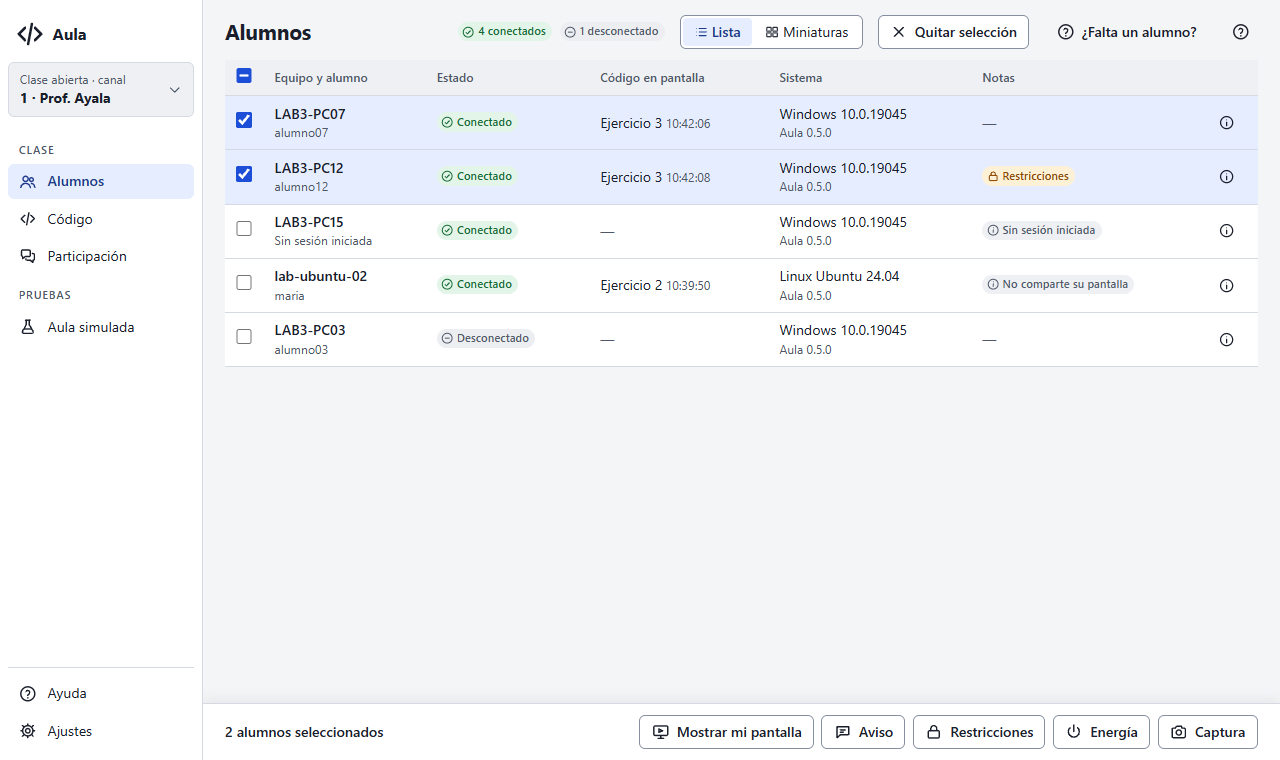
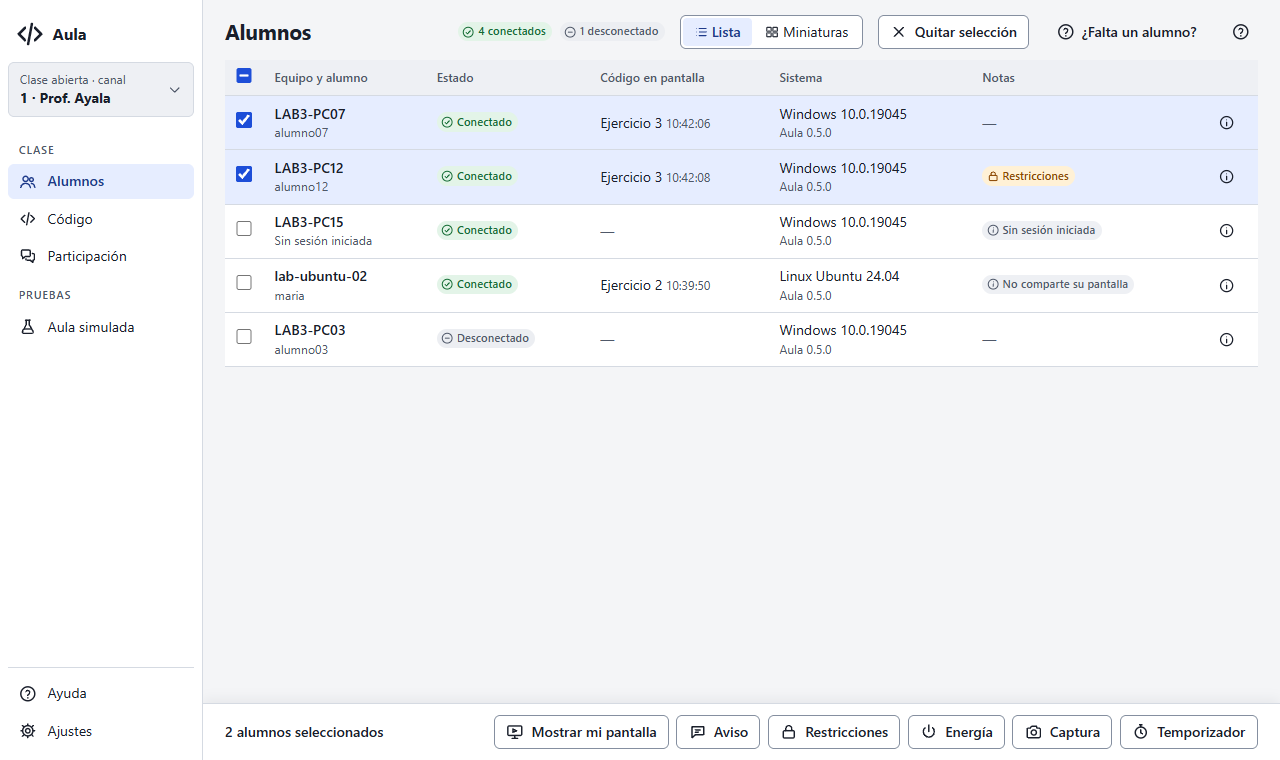
documentacion(docs): privacidad, manual y pruebas del temporizador de ejercicio
Regla 54 (el temporizador solo informa), Participación › Temporizador y la tarea «Dar tiempo
a un ejercicio», eventos de la UI, el paquete classtimer en CLAUDE.md, casos C-63 a C-67, A-18
y A-19, prueba en VM §20, progreso, nota de entrega con capturas y capturas del manual.

Changed region(s): [[0.375, 0.9382, 0.9688, 0.9987]]

diff --git a/docs/eventos-ui.md b/docs/eventos-ui.md
@@ -43,6 +43,7 @@ que no es parte de la página.
 | `aula:compact` | `Compact` | Go sacó la ventana del modo compacto porque el profesor hizo algo que el alumno debe ver (energía, restricciones, transmisión): `{on: false}`. |
 | `aula:power` | `PowerView` | Llega, se pospone, se ejecuta, falla o se anula una orden de energía (`power.*`). Llega **antes** de que la consola reciba el `power.ack`. `notice` es `null` cuando no hay aviso. |
 | `aula:participation` | `participation.DeskView` | La mano del alumno sube o baja (también si la baja el profesor: `hand.lower`), o uno de sus mensajes se envía, llega a la consola (`msg.student.ack`) o se rechaza (docs/protocol.md §5.18). Con `notify`, nunca `raise`. |
+| `aula:timer` | `classtimer.View` = `{state, timerId, label, remainingMs, justEnded}` | El temporizador del profesor empieza, se extiende, se detiene, termina o se quita (docs/protocol.md §5.19). `state`: `none`, `running` o `ended`. La ventana cuenta los segundos por su cuenta desde `remainingMs` (lo que faltaba al emitirlo) con `performance.now()`, sin la hora del equipo, y arma el texto de la insignia de la tira y del modo compacto. `justEnded` viene solo en el evento del fin: la ventana muestra el aviso de la esquina una vez. Al terminar Go llama a `notify`, nunca a `raise`. |
 
 ```jsonc
 // Status
@@ -106,7 +107,7 @@ llevar estado propio.
 
 | Método | Devuelve | Uso |
 |---|---|---|
-| `App.View()` | `View` = `{status, snippets, notices, broadcast, restrictions, power, participation}` | Estado completo para el primer dibujo. |
+| `App.View()` | `View` = `{status, snippets, notices, broadcast, restrictions, power, participation, timer}` | Estado completo para el primer dibujo. |
 | `App.Copy(snippetId)` | error (promesa rechazada con texto en español) | Copia el fragmento al portapapeles del sistema. |
 | `App.DismissNotice(noticeId)` | — | Cierra un aviso; emite `aula:notices`. |
 | `App.ReportMedia(webrtc, h264)` | — | Al cargar: si hay `RTCPeerConnection` y decodificador H.264. Go espera este aviso (máx. 5 s) antes de conectarse y solo entonces declara `screen.broadcast`. |
@@ -208,6 +209,7 @@ interfaz ──App.StopBroadcast()──▶ screen.broadcast.stop a todos; la co
 | `aula:remote` | `remote.Control` | El control remoto empieza (`starting`), el agente muestra su banda (`active`), se pausa porque el alumno usa su equipo (`paused`), sigue (`active`) o termina: `ended` con `reason` `teacher`, `replaced`, `idle`, `session` o `error`; `gone` si el alumno se desconectó; `failed` si el agente no pudo mostrar su aviso. `{sessionID, hostname, controlID, status, reason, viewing}`. |
 | `aula:snapshots` | `Snapshots` | Una captura de un alumno se pide, llega (`ready`), falla (`failed` con `reason` `timeout`, `capture`, `busy`, `unsupported`, `tooLarge`, `corrupt` o `gone`), se guarda (`path`) o se descarta. Lista completa `{snapshots: [{id, sessionId, hostname, username, simulated, status, reason, width, height, size, requestedAt, takenAt, path}]}`, **sin la imagen** (`SnapshotImage`). |
 | `aula:participation` | `Participation` | Un alumno (real o simulado) levanta o baja la mano, llega o se responde un mensaje, el profesor baja una mano o marca un mensaje como atendido, o la clase se cierra (docs/protocol.md §5.18). `arrival` solo viene en el evento que anuncia una mano o un mensaje recién llegado, para el aviso flotante (sin el texto). Las insignias de cada alumno llegan también en `aula:students` (`hand`, `newMessages`). |
+| `aula:timer` | `classtimer.Snapshot` | El temporizador de la clase empieza, se extiende, se detiene, llega a cero, un alumno lo confirma (`timer.ack`) o se reenvía a quien se reconecta (docs/protocol.md §5.19). `{active, timerId, label, durationS, remainingMs, ended, all, hosts, maxExtendS, receivers, eligible, unsupported}`: `remainingMs` es lo que faltaba al emitirlo (la interfaz cuenta con `performance.now()`); `receivers` = `[{sessionId, hostname, username, simulated, status}]` con `status` `sent` (sin confirmar), `running` o `ended`; `unsupported`, los equipos destinatarios que no declararon `timer`. La franja y la sección de Participación se dibujan con él. |
 | `aula:remote-frame` | `Thumb` | Cada imagen de la pantalla controlada (hasta 8 por segundo con la vista abierta, 1 con la vista cerrada). No pasa por `aula:frame` ni se guarda. |
 
 ```jsonc
@@ -327,6 +329,10 @@ cada código tenga su enlace y que la sección exista.
 | `SendNoticeTo(text, level, targets)` | `Delivery` / error | Igual, solo a `targets` (vacío = todos). Lo usa el panel **Aviso**. |
 | `SendPrivateNotice(sessionId, text, level)` | `Delivery` / error | **Mensaje privado** de la ficha y de la pantalla en grande (también en modo control: antes se sueltan las teclas presionadas y lo escrito en el campo no sale por `SendRemoteInput`): `msg.show` con `personal` solo a esa sesión (real o simulada). Su etiqueta es «Mensaje privado a <equipo>», sin el texto (`docs/privacidad.md` regla 53); el acuse llega en `aula:deliveries`. `studentGone` si no está conectado, `noticeUnsupported` si su equipo no declaró `msg.show`, `invalidNotice` si el texto no vale. |
 | `Resend(deliveryId)` | `Delivery` / error | **Reenviar a los que faltan**: manda de nuevo el mismo mensaje a las sesiones de `pending` y de `rejected` que siguen conectadas (las de `rejected` vuelven a `pending`). Los acuses tardíos del primer envío ya no cuentan; los nuevos, una vez. |
+| `Timer()` | `classtimer.Snapshot` | El temporizador de la clase (también en `View().timer`). |
+| `StartTimer({label, durationS, hosts})` | `classtimer.Snapshot` / error | **Iniciar** del panel **Temporizador**: reemplaza al que corre. `hosts`: los equipos de la selección (reales o simulados); vacío = toda la clase, también quien se conecte después. `label` ≤ 40, `durationS` 10 s–4 h. `noTimerTargets` si ninguno de los destinatarios conectados declaró `timer`; `invalidTimer` si el nombre o la duración no valen. El nombre no se registra (`docs/privacidad.md` regla 54). |
+| `ExtendTimer(addS)` | `classtimer.Snapshot` / error | **Extender** (+1, +5 o +10 min) de la franja y de Participación: `timer.extend` con lo que falta ya extendido; revive uno terminado. `timerGone` si no hay; `timerTooLong` si pasaría de 4 h; `invalidTimer` fuera de 1–60 min. |
+| `StopTimer()` | `classtimer.Snapshot` / error | **Detener** (o **Quitar**, ya terminado): `timer.stop` a quien lo tenía. `timerGone` si no hay. |
 | `InstallerInfo()` | `InstallerInfo` | Datos para quien instala: `{channel, consoleName, hostname, addresses, port, mediaPort, fingerprint, keySource, version}`. |
 | `CaptureClipboard()` | `Draft` / error | Igual que el atajo global; el resultado también llega como `aula:capture`. |
 | `OpenScreens()` | error | Abre la vista de pantallas (botón **Ver pantallas**): envía `screen.thumb.start` (1000 ms, calidad 50, 320 px) a cada alumno conectado con `canThumb`, y también a los que se conecten mientras siga abierta. Error si no hay clase. |

diff --git a/docs/progreso.md b/docs/progreso.md
@@ -1,6 +1,7 @@
 # Progreso
 
-Última actualización: 2026-11-05 (10.7 mensaje privado a un alumno implementado, falta la prueba
+Última actualización: 2026-11-05 (10.8 temporizador de ejercicio implementado, falta la prueba en
+VM; 10.7 mensaje privado a un alumno implementado, falta la prueba
 en VM; 10.6 manos y mensajes del alumno implementada, con la vista
 «Participación»; falta la prueba en VM; 10.5 captura de pantalla de un alumno implementada, falta la
 prueba en VM; 10.4 control remoto implementado, falta la prueba en VM; etapa 19 cerrada).
@@ -27,7 +28,7 @@ el que se trabajó antes; las notas de abajo lo conservan.
 | 10.5 | Captura de pantalla de un alumno | ✅ Implementado y probado en CI con dobles (falta la prueba en VM, `docs/prueba-vms.md` §17, y los casos C-49 a C-53 y A-12 y A-13) |
 | 10.6 | Mensajería del alumno y «levantar la mano» | ✅ Implementado y probado en CI con dobles y alumnos simulados; creó la vista «Participación» (falta la prueba en VM, `docs/prueba-vms.md` §18, y los casos C-54 a C-58 y A-14 a A-16) |
 | 10.7 | Mensaje directo a un alumno | ✅ Implementado como mejora del aviso (`msg.show` con `personal`) y probado en CI (falta la prueba en VM, `docs/prueba-vms.md` §19, y los casos C-59 a C-62 y A-17) |
-| 10.8 | Temporizador compartido | ⏳ Pendiente |
+| 10.8 | Temporizador compartido | ✅ Implementado y probado en CI con dobles y alumnos simulados; su sección en «Participación» (falta la prueba en VM, `docs/prueba-vms.md` §20, y los casos C-63 a C-67 y A-18 y A-19) |
 | 10.9 | Enviar archivos y plantillas de ejercicio | ⏳ Pendiente |
 | 10.10 | Recoger código y archivos | ⏳ Pendiente |
 | 10.11 | Enviar una URL o abrir una app | ⏳ Pendiente |
@@ -47,16 +48,16 @@ el que se trabajó antes; las notas de abajo lo conservan.
 | 20 | Auditoría y limpieza de los artefactos de `docs/v1/ux/` | ⏳ Pendiente (después de publicar el release) |
 
 **Siguiente:**
-1. Probar en la ventana real los casos C-01 a C-62 y A-01 a A-17, el control remoto en VM
+1. Probar en la ventana real los casos C-01 a C-67 y A-01 a A-19, el control remoto en VM
    (`docs/prueba-vms.md` §16: RC-A, RC-B y RC-C para aceptar), la captura (§17: SN-A, SN-B y
-   SN-C), las manos y mensajes (§18: HM-A, HM-B y HM-C) y el mensaje privado (§19: PM-A, PM-B y
-   PM-C).
+   SN-C), las manos y mensajes (§18: HM-A, HM-B y HM-C), el mensaje privado (§19: PM-A, PM-B y
+   PM-C) y el temporizador (§20: TM-A, TM-B y TM-C).
 2. La revisión 11.
 3. ~~Publicar `v0.6.0-rc.1`~~: publicado el 05/11/2026 (etapas 10.2, 10.3, 18, 19 y 10.4, instaladores
    de Windows y checksums firmados). Las 0.x son borradores: al integrar todas las funciones se
    borran y empieza la versión 1 oficial. Probar sus instaladores en las VMs (§14 a §16).
-4. Cualquier función de 10.8 a 10.13 con `/funcionalidad-nueva <número>`. Las que recogen
-   respuestas (10.8, 10.10, 10.12, 10.13) agregan su sección a la vista «Participación».
+4. Cualquier función de 10.9 a 10.13 con `/funcionalidad-nueva <número>`. Las que recogen
+   respuestas (10.10, 10.12, 10.13) agregan su sección a la vista «Participación».
 
 ## Etapa 02: notas
 
@@ -1125,6 +1126,46 @@ Para que cada función pendiente respete lo implementado:
   - el 12 como mejora;
   - una base común más el encaje por prompt.
 
+
+## Etapa 10.8: temporizador de ejercicio — notas
+
+- **Diseño aprobado** (2026-11-05) tal cual: paquete nuevo `internal/classtimer` (no
+  `participation`, que es «lo que responden los alumnos»), sin diagrama nuevo (la secuencia de
+  §5.19 basta), regla 54 de privacidad y «Extender» con +1, +5 y +10 min. Un ajuste al
+  implementar: al reconectar, el agente **no** borra la cuenta al enviar `hello`; espera 3 s a que
+  la consola la reenvíe, y si no llega la quita (evita que la insignia parpadee).
+- **Protocolo** (`docs/protocol.md` §5.19): `timer.start` (`timer_id`, `label` ≤ 40,
+  `duration_s` 10 s–4 h, `remaining_ms`), `timer.extend` (`add_s` 1–60 min, `remaining_ms` ya
+  extendido: un reenvío no suma dos veces), `timer.stop` y `timer.ack` (`running`, `ended`,
+  `stopped`). Capacidad `timer` en todos los SO cuando hay ventana (en servicio, con el ayudante).
+  **Sincronía por lo que falta**: cada lado fija su fin con su reloj monotónico; la hora del
+  equipo no interviene (prueba con relojes desfasados minutos).
+- **Lógica** (`internal/classtimer`): `Class` (consola: vigente, destinatarios por equipo, qué
+  mandó y acusó cada sesión; `Plan` reenvía a quien reconecta o llega, extiende a quien lo tenía y
+  detiene; tope de 4 h) y `Countdown` (agente: aplica los mensajes por `timer_id`, termina una vez,
+  quita el «terminó» a los 5 min). Sin SO.
+- **Consola:** botón y panel «Temporizador» en la barra de acciones (nombre, 1/5/10/15/20 min o
+  1–240, aviso si reemplaza al vigente o si algún equipo no lo puede ver); franja azul
+  «Ejercicio 1 · 4:32 · 2 de 3 lo ven» con «Extender» (+1/+5/+10) y «Detener»/«Quitar»; sección
+  «Temporizador» en Participación (cuánto queda, para quién, quién no confirma, quién no puede).
+  Bindings `Timer`, `StartTimer`, `ExtendTimer`, `StopTimer`; evento `aula:timer`; errores
+  `invalidTimer`, `noTimerTargets`, `timerGone`, `timerTooLong`; «Ver el temporizador» en la
+  ficha. Sistema de diseño: icono `reloj`, `.franja--temporizador` y `.cuenta` (cifras de ancho
+  fijo).
+- **Alumno:** insignia `role="timer"` en la tira y en el modo compacto, que cuenta sola una vez por
+  segundo con `performance.now()`; color de advertencia en el último minuto; al terminar,
+  «Se acabó el tiempo» en la esquina con `notify` (nunca `raise`). No es banda; sin bindings
+  nuevos.
+- **Simulados:** declaran `timer`, cuentan y acusan (con «No confirma lo que recibe», no acusan).
+- **Documentación:** regla 54; manual (Participación › Temporizador y Tareas frecuentes › «Dar
+  tiempo a un ejercicio»); `docs/eventos-ui.md`; `CLAUDE.md` (paquete nuevo); casos C-63 a C-67,
+  A-18 y A-19; `docs/prueba-vms.md` §20.
+- **Pruebas:** protocolo (ida y vuelta, límites, ejemplos válidos e inválidos); `classtimer`
+  (inicio, extender, detener, fin, reconexión, selección, reemplazo, relojes desfasados); el
+  agente con una consola real (acuses, fin con `notify`, sin el nombre en el log); los simulados;
+  los bindings de la consola; arnés (capturas 87–93 de la consola, 59–64 del alumno y los casos
+  `temporizador` y `temporizador-compacto`).
+- **Falta de tu lado:** la prueba en VM (§20) y los casos manuales.
 
 ## Etapa 10.7: mensaje privado a un alumno — notas
 

diff --git a/docs/desarrollo/probar-consola-local.md b/docs/desarrollo/probar-consola-local.md
@@ -140,6 +140,18 @@ Con el aula simulada abierta (C-03): cada simulado tiene «Levantar la mano» y 
 | C-62 | Toma el control de un alumno real; en su vista pulsa «Mensaje privado», escribe y Enter; luego Esc con el campo abierto | Lo que escribes no aparece en su equipo; le llega «Mensaje para ti»; la franja «Controlando…» nunca se fue. Esc cierra el mensaje, no la vista; tras un clic en su pantalla, tu teclado vuelve a manejarla |
 | C-58 | Cierra el aula simulada | Participación queda vacía («Nadie ha levantado la mano…»); a 900×600 y en oscuro se lee completa, sin barras horizontales |
 
+### Temporizador de ejercicio (10.8)
+
+Con el aula simulada abierta (C-03) y dos simulados; pon a Simulado 2 la falla «No confirma lo que recibe».
+
+| # | Pasos | Esperado |
+|---|---|---|
+| C-63 | Sin selección, «Temporizador» en la barra; escribe «Ejercicio 1», pulsa «1 min» e «Iniciar» | Se cierra el panel con «Temporizador iniciado»; arriba aparece la franja azul «Ejercicio 1 · 1:00 · 1 de 2 lo ven», que baja un segundo a la vez en cualquier vista. En Aula simulada los dos muestran el temporizador |
+| C-64 | En la franja, «Extender» › «+5 min» | «Se agregaron 5 min»; la franja salta a unos 6 minutos. Participación › Temporizador dice «Queda …», «Para toda la clase» y «Aún no lo confirma: Simulado 2» |
+| C-65 | Con el temporizador corriendo, abre otra vez «Temporizador» | El panel avisa «Reemplaza a «Ejercicio 1» (…)». Inicia uno de 1 min con otro nombre: la franja muestra solo el nuevo |
+| C-66 | Espera a que llegue a cero | Aparece un aviso «Ejercicio 1 · terminó»; la franja dice «… · terminó» con «Extender» y «Quitar». «Quitar» la quita y Participación vuelve a «No hay un temporizador en marcha». En el log de la consola dice «timer started/ended/stopped» con `timer_id` y duraciones, nunca el nombre |
+| C-67 | Marca solo Simulado 1 y abre «Temporizador»; luego a 900×600 y en oscuro | El destino dice «1 alumno seleccionado»; al iniciar, Participación dice «Para 1 equipo elegido». La franja y la sección se leen completas, sin barras horizontales |
+
 ### Diagramas
 
 | # | Pasos | Esperado |
@@ -192,6 +204,8 @@ Con la consola local y el agente apuntando a ella (`aula-cliente -canal 1 -clave
 | A-15 | «Mensaje al profesor», escribe y pulsa Enter; responde desde la consola con tu editor al frente | El mensaje queda en «Tus mensajes» como «Enviando…» y en seguida «Recibido»; la respuesta aparece en la esquina como «Respuesta a tu mensaje» con «Tú escribiste: «…»», sin quitarle el foco a tu editor. En compacto, el botón de mensaje devuelve la ventana a su tamaño |
 | A-17 | Con dos alumnos y tu editor al frente en uno, manda desde la consola un «Mensaje privado» a ese alumno | En su esquina aparece «Mensaje para ti» con el icono del sobre, sin quitarle el foco; el otro alumno no recibe nada. En `aula-agente.log` y en el log de la consola no aparece el texto |
 | A-16 | Con la mano levantada, cierra la consola y vuelve a abrirla; luego «Bajar la mano» desde la consola | Al reconectar, la mano vuelve a la fila de Participación sola; al bajarla, el alumno ve «Tu profesor bajó tu mano.» sin que la ventana salga al frente. `aula-agente.log` y el log de la consola dicen «hand raised»/«student message» con IDs y longitudes, nunca el texto |
+| A-18 | Con tu editor al frente, lanza desde la consola un temporizador de 1 min | En la tira de Aula aparece «Ejercicio 1 · 1:00», que baja una vez por segundo sin moverse ni parpadear; en el último minuto (todo el minuto, aquí) cambia a color de advertencia. Tu editor conserva el foco. En modo compacto la insignia también se ve |
+| A-19 | Deja que llegue a cero con la ventana abierta; luego con la ventana cerrada al área de notificación | Con la ventana abierta: la insignia dice «Ejercicio 1 · terminó» y en la esquina aparece «Se acabó el tiempo» con «Entendido», sin quitar el foco ni traer la ventana. Con la ventana cerrada: no aparece; solo se marca el icono. «Quitar» en la consola quita la insignia |
 
 ### Con alumnos reales (opcional, con `instaladores-locales.md`)
 

diff --git a/docs/v1/administracion/participacion.md b/docs/v1/administracion/participacion.md
@@ -1,6 +1,6 @@
 ---
 titulo: "La pantalla Participación"
-resumen: "Ve en orden quién levantó la mano o te escribió, respóndele y baja su mano."
+resumen: "Ve en orden quién levantó la mano o te escribió, respóndele, baja su mano y sigue el temporizador del ejercicio."
 grupo: "Guía por pantalla"
 orden: 45
 pantallas: [participacion]
@@ -8,8 +8,9 @@ pantallas: [participacion]
 
 # La pantalla Participación
 
-Aquí llega lo que tus alumnos te mandan durante la clase. Por ahora son las **manos levantadas** y
-los **mensajes** que te escriben desde su ventana de Aula. El número junto a **Participación** en
+Aquí llega lo que tus alumnos te mandan durante la clase: las **manos levantadas** y los
+**mensajes** que te escriben desde su ventana de Aula. Aquí sigues también el **temporizador** del
+ejercicio. El número junto a **Participación** en
 el menú cuenta lo que espera tu atención: las manos levantadas y los mensajes que aún no
 respondes.
 
@@ -57,11 +58,36 @@ envíos**, con su confirmación, como cualquier aviso.
 
 {{diagrama:18-manos-mensajes}}
 
+## Temporizador
+
+Para dar un tiempo a un ejercicio («Ejercicio 1 · 10 min»), elige a quién en **Alumnos** (o a
+nadie, para toda la clase) y pulsa **Temporizador** en la barra de acciones. Escribe un nombre (lo
+ven los alumnos; vacío dice «Tiempo»), elige la duración (1, 5, 10, 15 o 20 minutos, o escribe de
+1 a 240) y pulsa **Iniciar**. También puedes empezarlo desde aquí, con **Nuevo temporizador**.
+
+Mientras corre, una franja azul arriba de la consola dice «Ejercicio 1 · 4:32 · 18 de 20 lo ven»,
+en cualquier pantalla:
+
+- **Extender** muestra **+1 min**, **+5 min** y **+10 min**. Sirve también cuando ya terminó: lo
+  vuelve a poner en marcha.
+- **Detener** lo quita de todas las pantallas. Cuando ya terminó, el botón dice **Quitar**.
+
+En esta sección ves lo mismo con más detalle: cuánto queda, para quién es, quién **aún no lo
+confirma** (por ejemplo, un equipo que se acaba de desconectar) y quién **no puede verlo** (una
+versión de Aula anterior). Un temporizador nuevo reemplaza al que estaba corriendo; el panel te
+avisa antes.
+
+En el equipo del alumno aparece como una insignia en su barra de arriba, «Ejercicio 1 · 4:32»,
+también con la ventana encogida. **No tapa su trabajo ni le quita el teclado.** En el último
+minuto la insignia cambia de color, y al llegar a cero recibe un aviso suave en la esquina,
+«Se acabó el tiempo». Al terminar no pasa nada más: nada se bloquea ni se recoge.
+
 ## Probarlo sin laboratorio
 
 En **Aula simulada**, cada alumno de prueba tiene **Levantar la mano** y **Escribir**: su mano y su
 mensaje llegan aquí como los de un alumno real, marcados como «Simulado». Al cerrar el aula
-simulada se borran.
+simulada se borran. Los alumnos simulados también reciben el temporizador y lo confirman (salvo
+el que tiene la falla «No confirma lo que recibe»).
 
 ## Lo que no es obvio
 
@@ -73,3 +99,6 @@ simulada se borran.
   guarda sus últimos 20.
 - Los equipos con una versión de Aula anterior no tienen estos botones; en su ficha, «Levantar la
   mano» dice «No».
+- El temporizador cuenta lo mismo en todos los equipos aunque sus relojes no coincidan: la consola
+  manda cuánto falta, no la hora de terminar. Si un alumno se reconecta a mitad de la cuenta, le
+  llega otra vez con lo que falta. Dura como mucho 4 horas.

diff --git a/docs/v1/ux/profesor/ENTREGA-TEMPORIZADOR.md b/docs/v1/ux/profesor/ENTREGA-TEMPORIZADOR.md
@@ -1,0 +1,50 @@
+# Entrega: temporizador de ejercicio (prompt 10.8)
+
+Estado: **para aprobación**. Diseño aprobado el 2026-11-05: `timer.start`, `timer.extend`,
+`timer.stop` y `timer.ack` (`docs/protocol.md` §5.19), capacidad `timer`, paquete
+`internal/classtimer`, regla 54 en `docs/privacidad.md`. Sin diagrama nuevo.
+
+## Consola (`temporizador/`)
+
+| Captura | Qué muestra |
+|---|---|
+| `87-panel-temporizador.png` | El panel de la barra de acciones con dos alumnos elegidos: nombre, 1/5/10/15/20 min o los minutos a mano, y la nota «no tapa su trabajo». |
+| `88-temporizador-franja.png` | Tras «Iniciar»: la franja azul «Ejercicio 1 · 5:00 · … lo ven» con «Extender» y «Detener». |
+| `89-temporizador-extender.png` | «Extender» desplegado: +1, +5 y +10 min en la misma franja. |
+| `90-temporizador-termino.png` | Terminado: «Ejercicio 1 · terminó» con «Extender» y «Quitar». |
+| `91-participacion-temporizador.png` | Participación › Temporizador: cuánto queda, para quién, quién aún no confirma y quién no puede verlo. |
+| `92-temporizador-oscuro-900x600.png` | Oscuro a 900×600, con el panel abierto. |
+| `93-temporizador-reemplaza.png` | El panel avisa que un temporizador nuevo reemplaza al que corre. |
+
+## App del alumno (`../alumno/temporizador/`)
+
+| Captura | Qué muestra |
+|---|---|
+| `59-temporizador.png` | La insignia «Ejercicio 1 · 4:32» en la tira, junto a la mano; el código sin tapar. |
+| `60-temporizador-ultimo-minuto.png` | El último minuto en color de advertencia (sin parpadeo). |
+| `61-temporizador-termino.png` | «Ejercicio 1 · terminó» y el aviso «Se acabó el tiempo» en la esquina. |
+| `62-temporizador-oscuro.png` | Oscuro. |
+| `63-temporizador-angosta.png` | A 480×360. |
+| `64-compacto-temporizador.png` | En el modo compacto. |
+
+## Verificado
+
+- `node scripts/ux/recorrido.mjs` (93 capturas) y `node scripts/ux/recorrido-alumno.mjs`: sin
+  errores de JS ni violaciones serias de axe (se corrigieron dos al revisar: etiquetas de «+1 min»
+  distintas del texto visible y la franja fuera de un landmark).
+- `node scripts/ux/pruebas-alumno.mjs`, con `temporizador` (en la tira, no es banda,
+  `role="timer"`, cambia una vez por segundo sin animaciones, color en el último minuto, el fin en
+  la esquina sin quitar el foco, se quita al detenerlo) y `temporizador-compacto`.
+- `go test -race ./...`, `go vet`, `staticcheck` y `gofmt -l` limpios.
+
+## Cambios visibles fuera de la función
+
+- Icono nuevo `reloj`, `.franja--temporizador` y `.cuenta` (cifras de ancho fijo) en
+  `internal/ui`.
+- La ficha del alumno suma «Ver el temporizador» en «Qué puede hacer su equipo».
+
+## Falta probar a mano
+
+- C-63 a C-67 y A-18 y A-19 (`docs/desarrollo/probar-consola-local.md`).
+- La prueba en VM, `docs/prueba-vms.md` §20 (TM-A, TM-B y TM-C para aceptar): dos alumnos con
+  relojes desfasados, extender y detener, que no quite el foco, y la reconexión a media cuenta.

diff --git a/docs/prueba-vms.md b/docs/prueba-vms.md
@@ -1171,3 +1171,20 @@ todos, sin quitarle el foco, y que su texto no queda en los registros ni en «Ú
 | **PM-D** Ventana cerrada | Cierra Aula en la VM 1 y manda otro privado. | La ventana no aparece; el icono se marca y al abrirla está el mensaje. |
 
 **Para aceptar** bastan PM-A, PM-B y PM-C en ✅.
+
+## 20. Temporizador de ejercicio (10.8)
+
+Comprueba que el temporizador se ve igual en dos alumnos aunque sus relojes difieran, que
+extender y detener llegan a los dos, y que es discreto: no tapa el trabajo ni quita el foco
+(`docs/protocol.md` §5.19, `docs/privacidad.md` regla 54). Con las dos VMs de §18; **adelanta
+el reloj de la VM 2 unos 5 minutos** (Fecha y hora › desactivar «automática») antes de empezar.
+
+| Caso | Pasos | Esperado |
+|---|---|---|
+| **TM-A** Cuenta consistente (**aceptación**) | Con el Bloc de notas al frente en las dos VMs, **Temporizador** › «Ejercicio 1», **1 min**, **Iniciar**. Pon las dos VMs una junto a otra. | Las dos muestran «Ejercicio 1 · 1:00» en su tira y bajan juntas (a lo más 1 s de diferencia), aunque la VM 2 tenga otra hora. La franja de la consola dice «2 de 2 lo ven». El Bloc de notas no pierde el foco. |
+| **TM-B** Extender y detener (**aceptación**) | A los 30 s, **Extender** › **+1 min**; luego **Detener**. | Las dos saltan a ~1:30 a la vez; al detener, la insignia desaparece en las dos. |
+| **TM-C** Discreto (**aceptación**) | Lanza otro de 1 min y escribe en el Bloc de notas hasta que termine; prueba también con Aula en modo compacto. | La insignia no tapa nada ni se mueve; en el último minuto cambia de color. Al terminar aparece «Se acabó el tiempo» en la esquina sin quitar el foco: lo que escribes sigue entrando en el Bloc de notas. Nada se bloquea. |
+| **TM-D** Reconexión a media cuenta | Lanza 3 min; desconecta la red de la VM 1 15 s y vuelve a conectarla. | Durante el corte la cuenta sigue; al reconectar, la VM 1 sigue con la misma cuenta que la VM 2 (sin saltar a cero ni reiniciarse). |
+| **TM-E** Detenido sin conexión | Lanza 3 min; desconecta la VM 1, pulsa **Detener** y vuelve a conectarla. | Al reconectar, la insignia de la VM 1 desaparece en unos 3 s. |
+
+**Para aceptar** bastan TM-A, TM-B y TM-C en ✅. Vuelve a poner la hora automática en la VM 2.

diff --git a/CLAUDE.md b/CLAUDE.md
@@ -61,6 +61,10 @@ Dos aplicaciones, mismo monorepo:
     fila de manos levantadas y la bandeja de mensajes de la consola (`Board`), y la mano y los
     mensajes pendientes del agente (`Desk`), con su ritmo. Solo en memoria; nunca registra el
     texto.
+  - `internal/classtimer`: el temporizador de ejercicio (`timer.*`): del lado de la consola, el
+    vigente, para quién es, qué se mandó y acusó cada sesión y el reenvío al reconectar
+    (`Class`); del lado del agente, la cuenta por lo que falta (nunca por la hora), el fin una sola
+    vez y lo que muestra la ventana (`Countdown`). Solo informa: nada cambia en el equipo.
   - `internal/connectcheck`: el comprobador de conexión de la consola: recorre el camino de un
     alumno (anuncio mDNS, puerto, TLS y clave del centro) y lee la red y el firewall por
     `platform`; da las mismas causas que el agente (`session.Cause`).
@@ -69,7 +73,7 @@ Dos aplicaciones, mismo monorepo:
     frontend Wails bajo `sistema/`. Una sola copia: ninguna app guarda la suya. Su prueba de
     contraste (WCAG AA) vive con él.
   - `apps/teacher`, `apps/student`: cada una su `main` y su frontend Wails; solo consumen `internal/*`.
-- **`protocol`, `discovery`, `transport`, `session`, `codedist`, `screen`, `broadcast`, `agentsvc`, `policy`, `power`, `remote`, `snapshot`, `simclass`, `manual`, `connectcheck`, `participation`, `ui` NO llaman APIs del SO.** Todo lo
+- **`protocol`, `discovery`, `transport`, `session`, `codedist`, `screen`, `broadcast`, `agentsvc`, `policy`, `power`, `remote`, `snapshot`, `simclass`, `manual`, `connectcheck`, `participation`, `classtimer`, `ui` NO llaman APIs del SO.** Todo lo
   que toca pantalla, teclado, portapapeles, overlay o servicios pasa por una interfaz de
   `internal/platform`.
 - El profesor anuncia su sesión por mDNS con el canal en los metadatos. **Los alumnos se

diff --git a/docs/privacidad.md b/docs/privacidad.md
@@ -382,6 +382,20 @@ con `notify`, sin quitar el foco.
     **nunca** el texto (regla 5). En «Últimos envíos» la consola lo etiqueta «Mensaje privado a
     <equipo>», sin el texto, para que no quede a la vista si el profesor transmite su pantalla.
 
+## Temporizador de ejercicio (v0.9, todos los sistemas)
+
+El profesor da un tiempo con nombre a la clase o a una selección («Ejercicio 1 · 10 min») y cada
+alumno ve cuánto falta en una insignia de su tira de identidad (`docs/protocol.md` §5.19). No
+observa ni controla el equipo: no lleva banda ni aviso fijo, no tapa el trabajo del alumno y nunca
+trae su ventana al frente ni le quita el foco. El fin usa `notify`: un aviso suave en la esquina y,
+con la ventana cerrada, solo la marca en el icono del área de notificación.
+
+54. **El temporizador solo informa.** Al llegar a cero no se bloquea, no se recoge ni se cambia
+    nada en el equipo: el alumno sigue trabajando. Por eso también lo reciben los alumnos
+    simulados (regla 34 no aplica). Los registros llevan `timer_id`, la duración y lo que falta,
+    **nunca** el nombre que le puso el profesor (`label`), que es texto suyo. La consola lo
+    guarda en memoria y lo olvida al cerrar la clase o cambiar de canal.
+
 ## Pendiente para etapas futuras
 
 - Linux y macOS (incluida la recepción de la transmisión, las restricciones, el control remoto

diff --git a/docs/v1/administracion/tareas-frecuentes.md b/docs/v1/administracion/tareas-frecuentes.md
@@ -1,6 +1,6 @@
 ---
 titulo: "Tareas frecuentes"
-resumen: "Mostrar tu pantalla, mandar avisos, restringir aplicaciones y sitios, apagar equipos, tomar el control de un equipo, tomar una captura de su pantalla y cambiar de canal."
+resumen: "Mostrar tu pantalla, mandar avisos, dar tiempo a un ejercicio, restringir aplicaciones y sitios, apagar equipos, tomar el control de un equipo, tomar una captura de su pantalla y cambiar de canal."
 grupo: "Tareas frecuentes"
 orden: 60
 pantallas: []
@@ -29,6 +29,16 @@ pulsa **Detener** en la franja. Por ahora, solo equipos con Windows pueden recib
 3. Pulsa **Enviar aviso**.
 
 En [Código › Últimos envíos](codigo#últimos-envíos) ves quién ya lo vio.
+
+## Dar tiempo a un ejercicio
+
+1. Pulsa **Temporizador**.
+2. Escribe el nombre («Ejercicio 1») y elige la duración.
+3. Pulsa **Iniciar**.
+
+Los alumnos ven cuánto falta en su barra de arriba, sin que les tape el trabajo. En la franja de
+tu consola puedes **Extender** o **Detener**. Más detalles en
+[Participación › Temporizador](participacion#temporizador).
 
 ## Mandar un mensaje privado a un alumno
 
